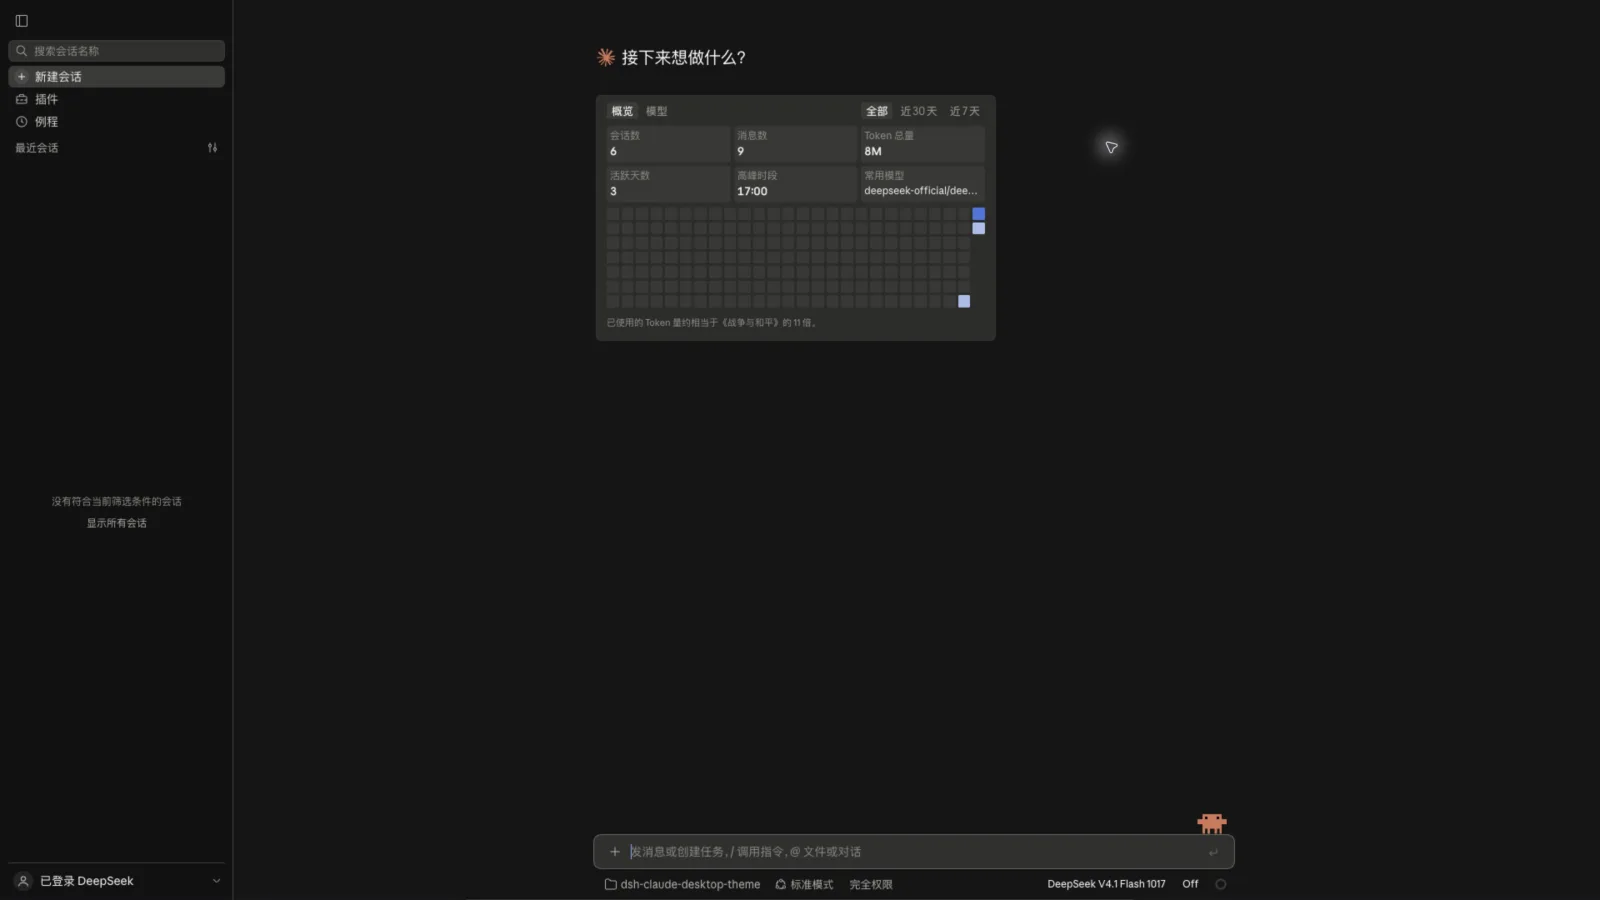
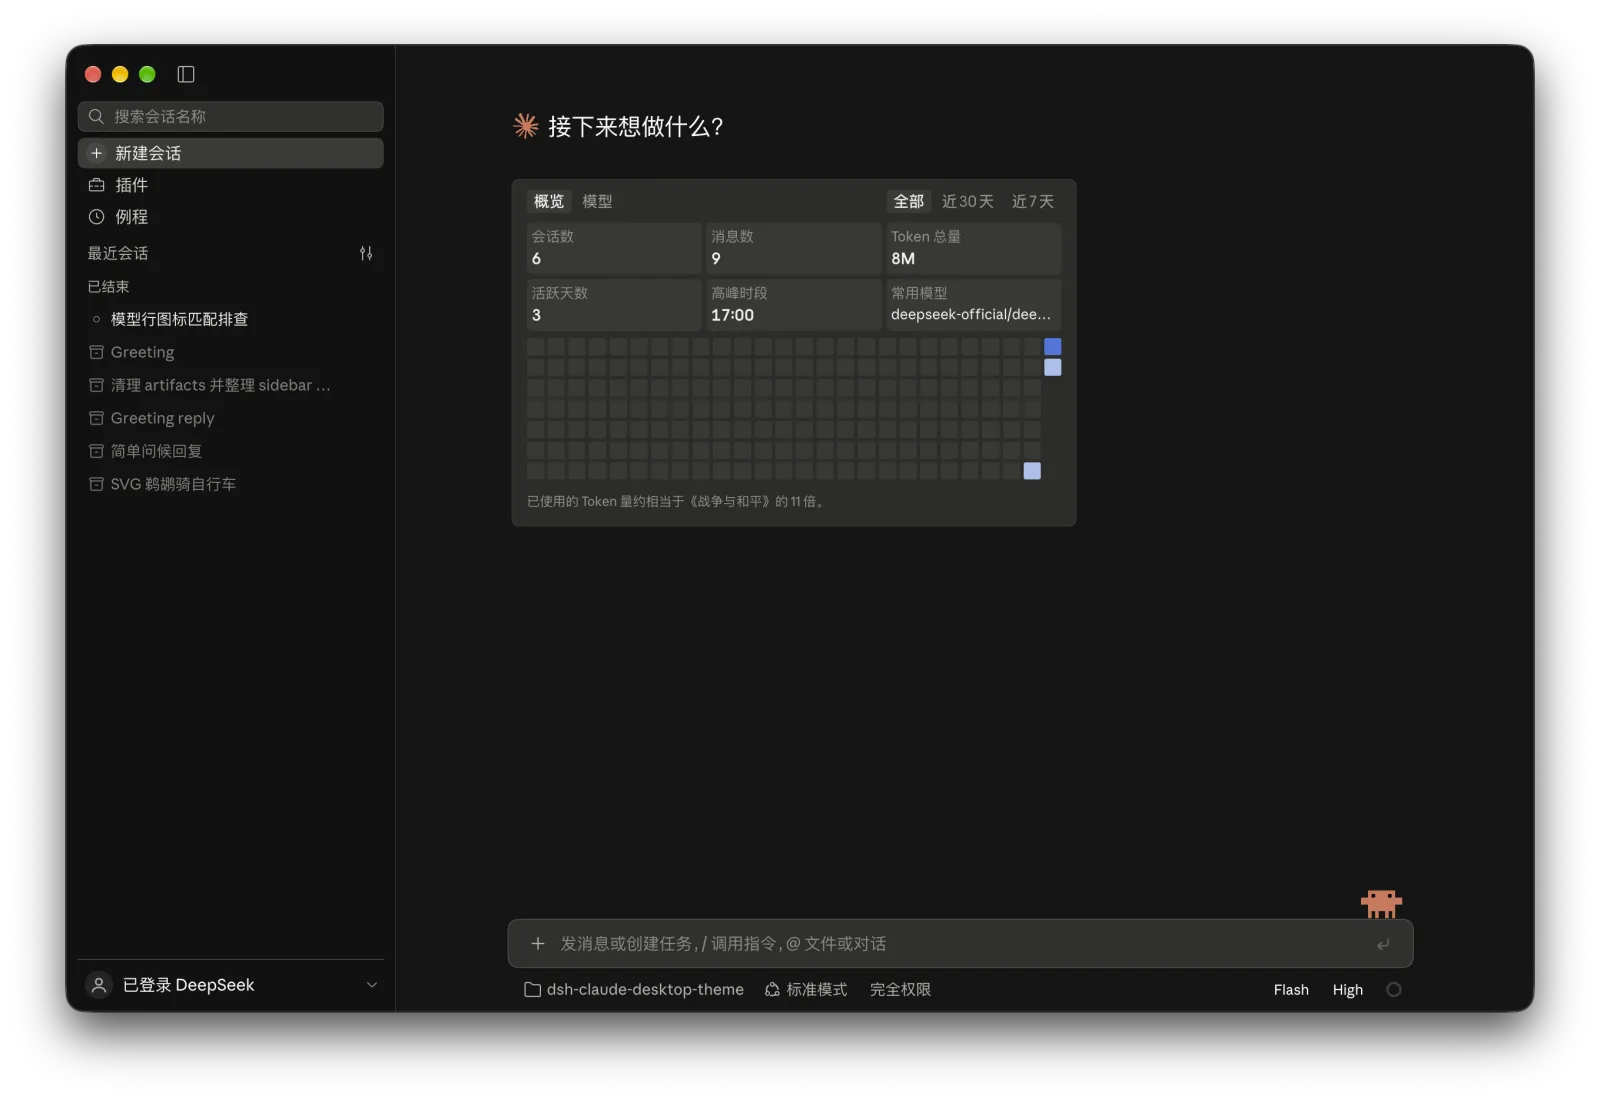
docs: replace window previews with supplied screenshots

Changed region(s): [[0.0, 0.0, 1.0, 1.0], [0.4375, 0.2489, 0.4688, 0.3111], [0.6875, 0.1556, 0.7188, 0.1867]]

diff --git a/README.md b/README.md
@@ -39,14 +39,14 @@
 | 会话页 | ![会话页 · 浅色](https://raw.githubusercontent.com/zkforge/dsh-claude-desktop-theme/main/assets/screenshots/chat-light.webp) | ![会话页 · 深色](https://raw.githubusercontent.com/zkforge/dsh-claude-desktop-theme/main/assets/screenshots/chat-dark.webp) |
 | 插件设置 | ![插件设置 · 浅色](https://raw.githubusercontent.com/zkforge/dsh-claude-desktop-theme/main/assets/screenshots/settings-light.webp) | ![插件设置 · 深色](https://raw.githubusercontent.com/zkforge/dsh-claude-desktop-theme/main/assets/screenshots/settings-dark.webp) |
 
-### 全屏展示
+### 完整窗口展示
 
-以下为 macOS 全屏窗口实拍，使用 Claude 像素宠物与首页问候样式，关闭主页水波纹，保留统计卡片。
+以下为 macOS 完整窗口截图，使用 Claude 像素宠物与首页问候样式，关闭主页水波纹，保留统计卡片。
 
 | 界面 | 浅色 | 深色 |
 | --- | --- | --- |
-| 新会话页 · 全屏 | ![新会话页全屏 · 浅色](https://raw.githubusercontent.com/zkforge/dsh-claude-desktop-theme/main/assets/screenshots/fullscreen-light.webp) | ![新会话页全屏 · 深色](https://raw.githubusercontent.com/zkforge/dsh-claude-desktop-theme/main/assets/screenshots/fullscreen-dark.webp) |
-| 模型选单展开 · 全屏 | ![模型选单全屏 · 浅色](https://raw.githubusercontent.com/zkforge/dsh-claude-desktop-theme/main/assets/screenshots/model-menu-fullscreen-light.webp) | ![模型选单全屏 · 深色](https://raw.githubusercontent.com/zkforge/dsh-claude-desktop-theme/main/assets/screenshots/model-menu-fullscreen-dark.webp) |
+| 新会话页 · 完整窗口 | ![新会话页完整窗口 · 浅色](https://raw.githubusercontent.com/zkforge/dsh-claude-desktop-theme/main/assets/screenshots/fullscreen-light.webp) | ![新会话页完整窗口 · 深色](https://raw.githubusercontent.com/zkforge/dsh-claude-desktop-theme/main/assets/screenshots/fullscreen-dark.webp) |
+| 模型选单展开 · 完整窗口 | ![模型选单完整窗口 · 浅色](https://raw.githubusercontent.com/zkforge/dsh-claude-desktop-theme/main/assets/screenshots/model-menu-fullscreen-light.webp) | ![模型选单完整窗口 · 深色](https://raw.githubusercontent.com/zkforge/dsh-claude-desktop-theme/main/assets/screenshots/model-menu-fullscreen-dark.webp) |
 
 ### 组件特写
 

diff --git a/AGENTS.md b/AGENTS.md
@@ -38,7 +38,7 @@ npm run effort:gifs
 
 README 的完整界面截图是人工拍摄的：改到侧栏、会话页、右栏、设置页这类会被拍到的界面后，按同一口径重拍受影响的图。口径是 macOS、窗口 1392×932 逻辑 px、@2x、默认配色与 Geist、统计卡片开启、状态栏统计读数关闭、演示数据不含真实账号信息；导出 1600px 宽 WebP（`cwebp -resize 1600 0 -q 82`），文件名见 README 的图片引用。模型选择器的两张局部截图例外：运行 `node scripts/model-picker-screenshots.mjs`，直接渲染真实 `ModelControls` 与演示目录，沿用窗口、字体和 @2x 口径，裁剪组件后按原始分辨率以 WebP q82 导出。`check:architecture` 会校验 README 里绝对路径的图片是否还在仓库中。
 
-`fullscreen-*.webp` 与 `model-menu-fullscreen-*.webp` 为 1920×1080 逻辑 px 全屏窗口实拍，使用 Claude 宠物与问候样式、关闭水波纹；同样导出为 1600px 宽 WebP q82。
+`fullscreen-*.webp` 与 `model-menu-fullscreen-*.webp` 使用用户提供的 2718×1866 px 完整窗口截图，保留原始构图、背景和窗口边缘，使用 Claude 宠物与问候样式、关闭水波纹；同样导出为 1600px 宽 WebP q82。
 
 资源渲染脚本共用 `scripts/lib/headless-chrome.mjs` 里的 Chrome 与 DevTools 连接。
 
